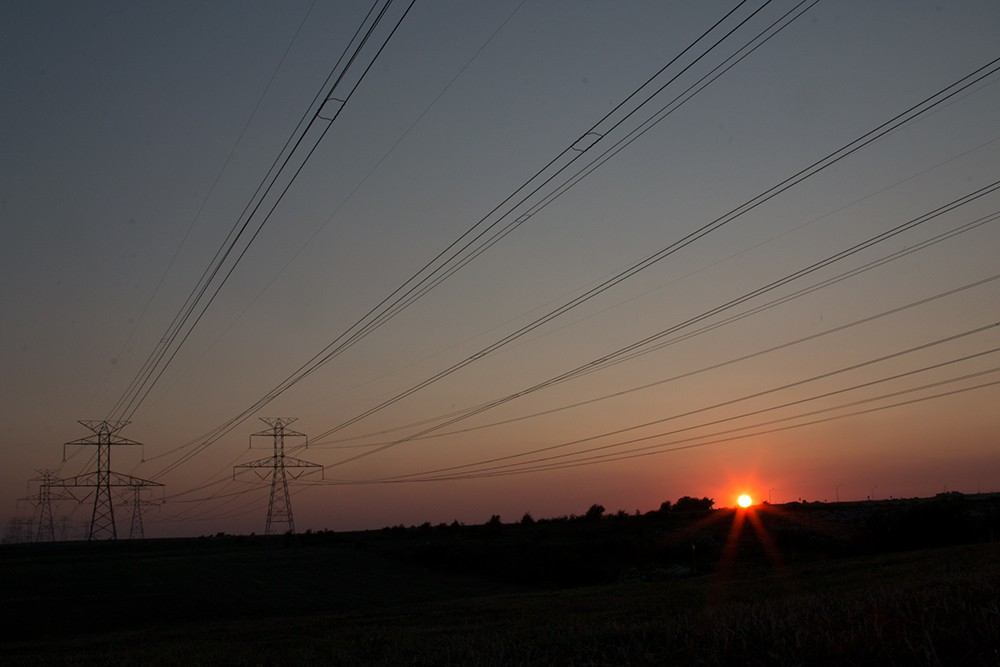
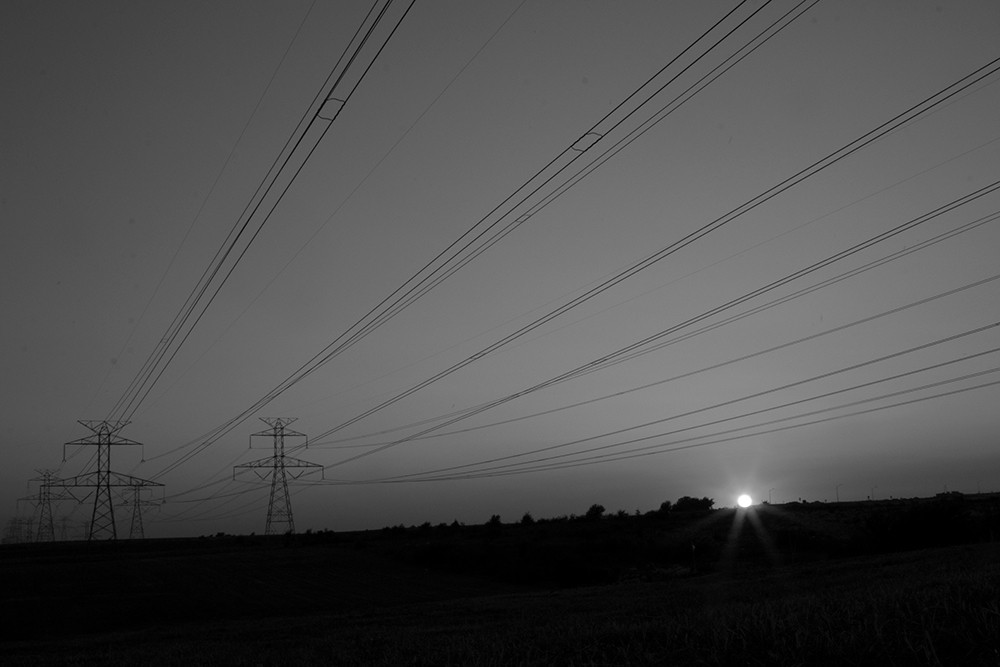
Add equalizeHist

Changed region(s): [[0.279, 0.5097, 1.0, 0.8096]]

diff --git a/epsilon.py b/epsilon.py
@@ -6,7 +6,7 @@ from matplotlib import pyplot as plt
 ### EXAMPLES ###
 
 # Load in gray scale
-img = cv2.imread('1_opencv.jpg')
+img = cv2.imread('1_opencv.jpg', 0)
 
 # Show image
 # cv2.namedWindow('image', cv2.WINDOW_NORMAL)
@@ -41,10 +41,18 @@ img = cv2.imread('1_opencv.jpg')
 ## GOAL ##
 ##########
 
-# NOTE: It doesn't seem like you can change the aperture in OpenCV
-# NOTE: Aperture settings are probably only during the actual photo shoot
+# NOTE # It doesn't seem like you can change the aperture in OpenCV
+# NOTE # Aperture settings are probably only during the actual photo shoot
+# NOTE # Try Histograms Equalization in OpenCV
 
 # Write example
+
+# Aperture settings are not in OpenCV (at least from my research),
+# Try using Histograms examples
+
+equ = cv2.equalizeHist(img)
+res = np.hstack((img, equ))
+cv2.imwrite('exports/equalize_opencv.png', res)
 
 # 1. Change the image aperture +1
 # a. Export to JPG
